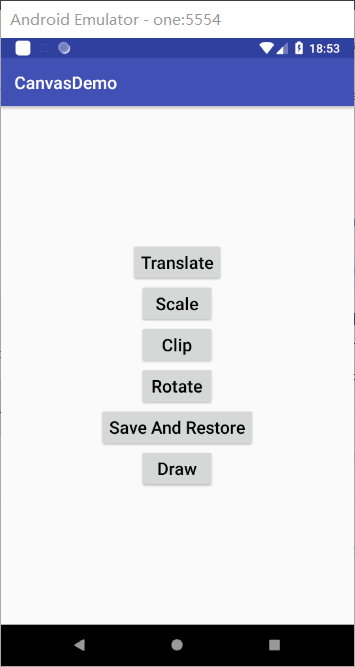
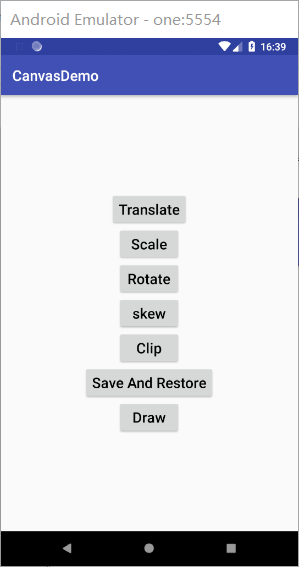
添加clip+skew等 demo

diff --git a/app/src/main/java/canvas_demo/liweijie/github/com/canvasdemo/CanvasSkewActivity.java b/app/src/main/java/canvas_demo/liweijie/github/com/canvasdemo/CanvasSkewActivity.java
@@ -1,0 +1,52 @@
+package canvas_demo.liweijie.github.com.canvasdemo;
+
+import android.content.Context;
+import android.graphics.Canvas;
+import android.graphics.Color;
+import android.graphics.Paint;
+import android.os.Bundle;
+import android.support.annotation.Nullable;
+import android.support.v7.app.AppCompatActivity;
+import android.view.View;
+
+/**
+ * @author liweijie
+ * create on 2018/5/16.
+ * email:liweijie@qq.com
+ * desc: 错切
+ * lastModify:
+ */
+
+public class CanvasSkewActivity extends AppCompatActivity {
+  @Override protected void onCreate(@Nullable Bundle savedInstanceState) {
+    super.onCreate(savedInstanceState);
+    setContentView(new SkewView(this));
+  }
+}
+
+class SkewView extends View {
+
+  private Paint mPaint;
+  public SkewView(Context context) {
+    super(context);
+    mPaint = new Paint();
+    mPaint.setAntiAlias(true);
+    mPaint.setStyle(Paint.Style.FILL);
+  }
+
+  /**
+   * 对于skew(x,y),x,y,是对应x轴y轴的倾斜值，其中,x = tan a,y = tan b,a和b就是我们需要倾斜的角度，x正方向是向左，y正反向是向下。
+   * @param canvas
+   */
+  @Override protected void onDraw(Canvas canvas) {
+    super.onDraw(canvas);
+    mPaint.setColor(Color.RED);
+    canvas.drawRect(200, 200, 400, 400, mPaint);
+    canvas.save();
+    canvas.skew(1,0);//画布向左倾斜45度tab 45 = 1
+    mPaint.setColor(Color.GRAY);
+    //倾斜之后
+    canvas.drawRect(200, 200, 400, 400, mPaint);
+    canvas.restore();
+  }
+}

diff --git a/app/src/main/java/canvas_demo/liweijie/github/com/canvasdemo/CanvasSaveAndRestoreActivity.java b/app/src/main/java/canvas_demo/liweijie/github/com/canvasdemo/CanvasSaveAndRestoreActivity.java
@@ -1,0 +1,43 @@
+package canvas_demo.liweijie.github.com.canvasdemo;
+
+import android.content.Context;
+import android.graphics.Canvas;
+import android.graphics.Paint;
+import android.os.Bundle;
+import android.support.annotation.Nullable;
+import android.support.v7.app.AppCompatActivity;
+import android.view.View;
+
+/**
+ * @author liweijie
+ * create on 2018/5/16.
+ * email:liweijie@qq.com
+ * desc:
+ * lastModify:
+ */
+
+public class CanvasSaveAndRestoreActivity extends AppCompatActivity {
+  @Override protected void onCreate(@Nullable Bundle savedInstanceState) {
+    super.onCreate(savedInstanceState);
+    setContentView(new SaveAndRestoreView((this)));
+  }
+}
+
+class SaveAndRestoreView extends View{
+
+  private Paint mPaint;
+
+  public SaveAndRestoreView(Context context) {
+    super(context);
+    mPaint = new Paint();
+  }
+
+  /**
+   * 一般而言，save+restore是成对出现的，save()用于保留现场，restore则是还原。
+   * @param canvas
+   */
+  @Override protected void onDraw(Canvas canvas) {
+    super.onDraw(canvas);
+
+  }
+}

diff --git a/app/src/main/java/canvas_demo/liweijie/github/com/canvasdemo/CanvasClipActivity.java b/app/src/main/java/canvas_demo/liweijie/github/com/canvasdemo/CanvasClipActivity.java
@@ -1,0 +1,32 @@
+package canvas_demo.liweijie.github.com.canvasdemo;
+
+import android.content.Context;
+import android.graphics.Paint;
+import android.os.Bundle;
+import android.support.annotation.Nullable;
+import android.support.v7.app.AppCompatActivity;
+import android.view.View;
+
+/**
+ * @author liweijie
+ * create on 2018/5/16.
+ * email:liweijie@qq.com
+ * desc:
+ * lastModify:
+ */
+
+public class CanvasClipActivity extends AppCompatActivity {
+  @Override protected void onCreate(@Nullable Bundle savedInstanceState) {
+    super.onCreate(savedInstanceState);
+    setContentView(new ClipView(this));
+  }
+}
+
+class ClipView extends View{
+  private Paint mPaint;
+
+  public ClipView(Context context) {
+    super(context);
+    mPaint = new Paint();
+  }
+}

diff --git a/app/src/main/java/canvas_demo/liweijie/github/com/canvasdemo/MainActivity.java b/app/src/main/java/canvas_demo/liweijie/github/com/canvasdemo/MainActivity.java
@@ -25,15 +25,15 @@ public class MainActivity extends AppCompatActivity {
   }
 
   public void skew(View view) {
-
+    startActivity(new Intent(this, CanvasSkewActivity.class));
   }
 
   public void clip(View view) {
-
+    startActivity(new Intent(this, CanvasClipActivity.class));
   }
 
   public void saveAndRestore(View view) {
-
+    startActivity(new Intent(this, CanvasSaveAndRestoreActivity.class));
   }
 
   public void draw(View view) {
